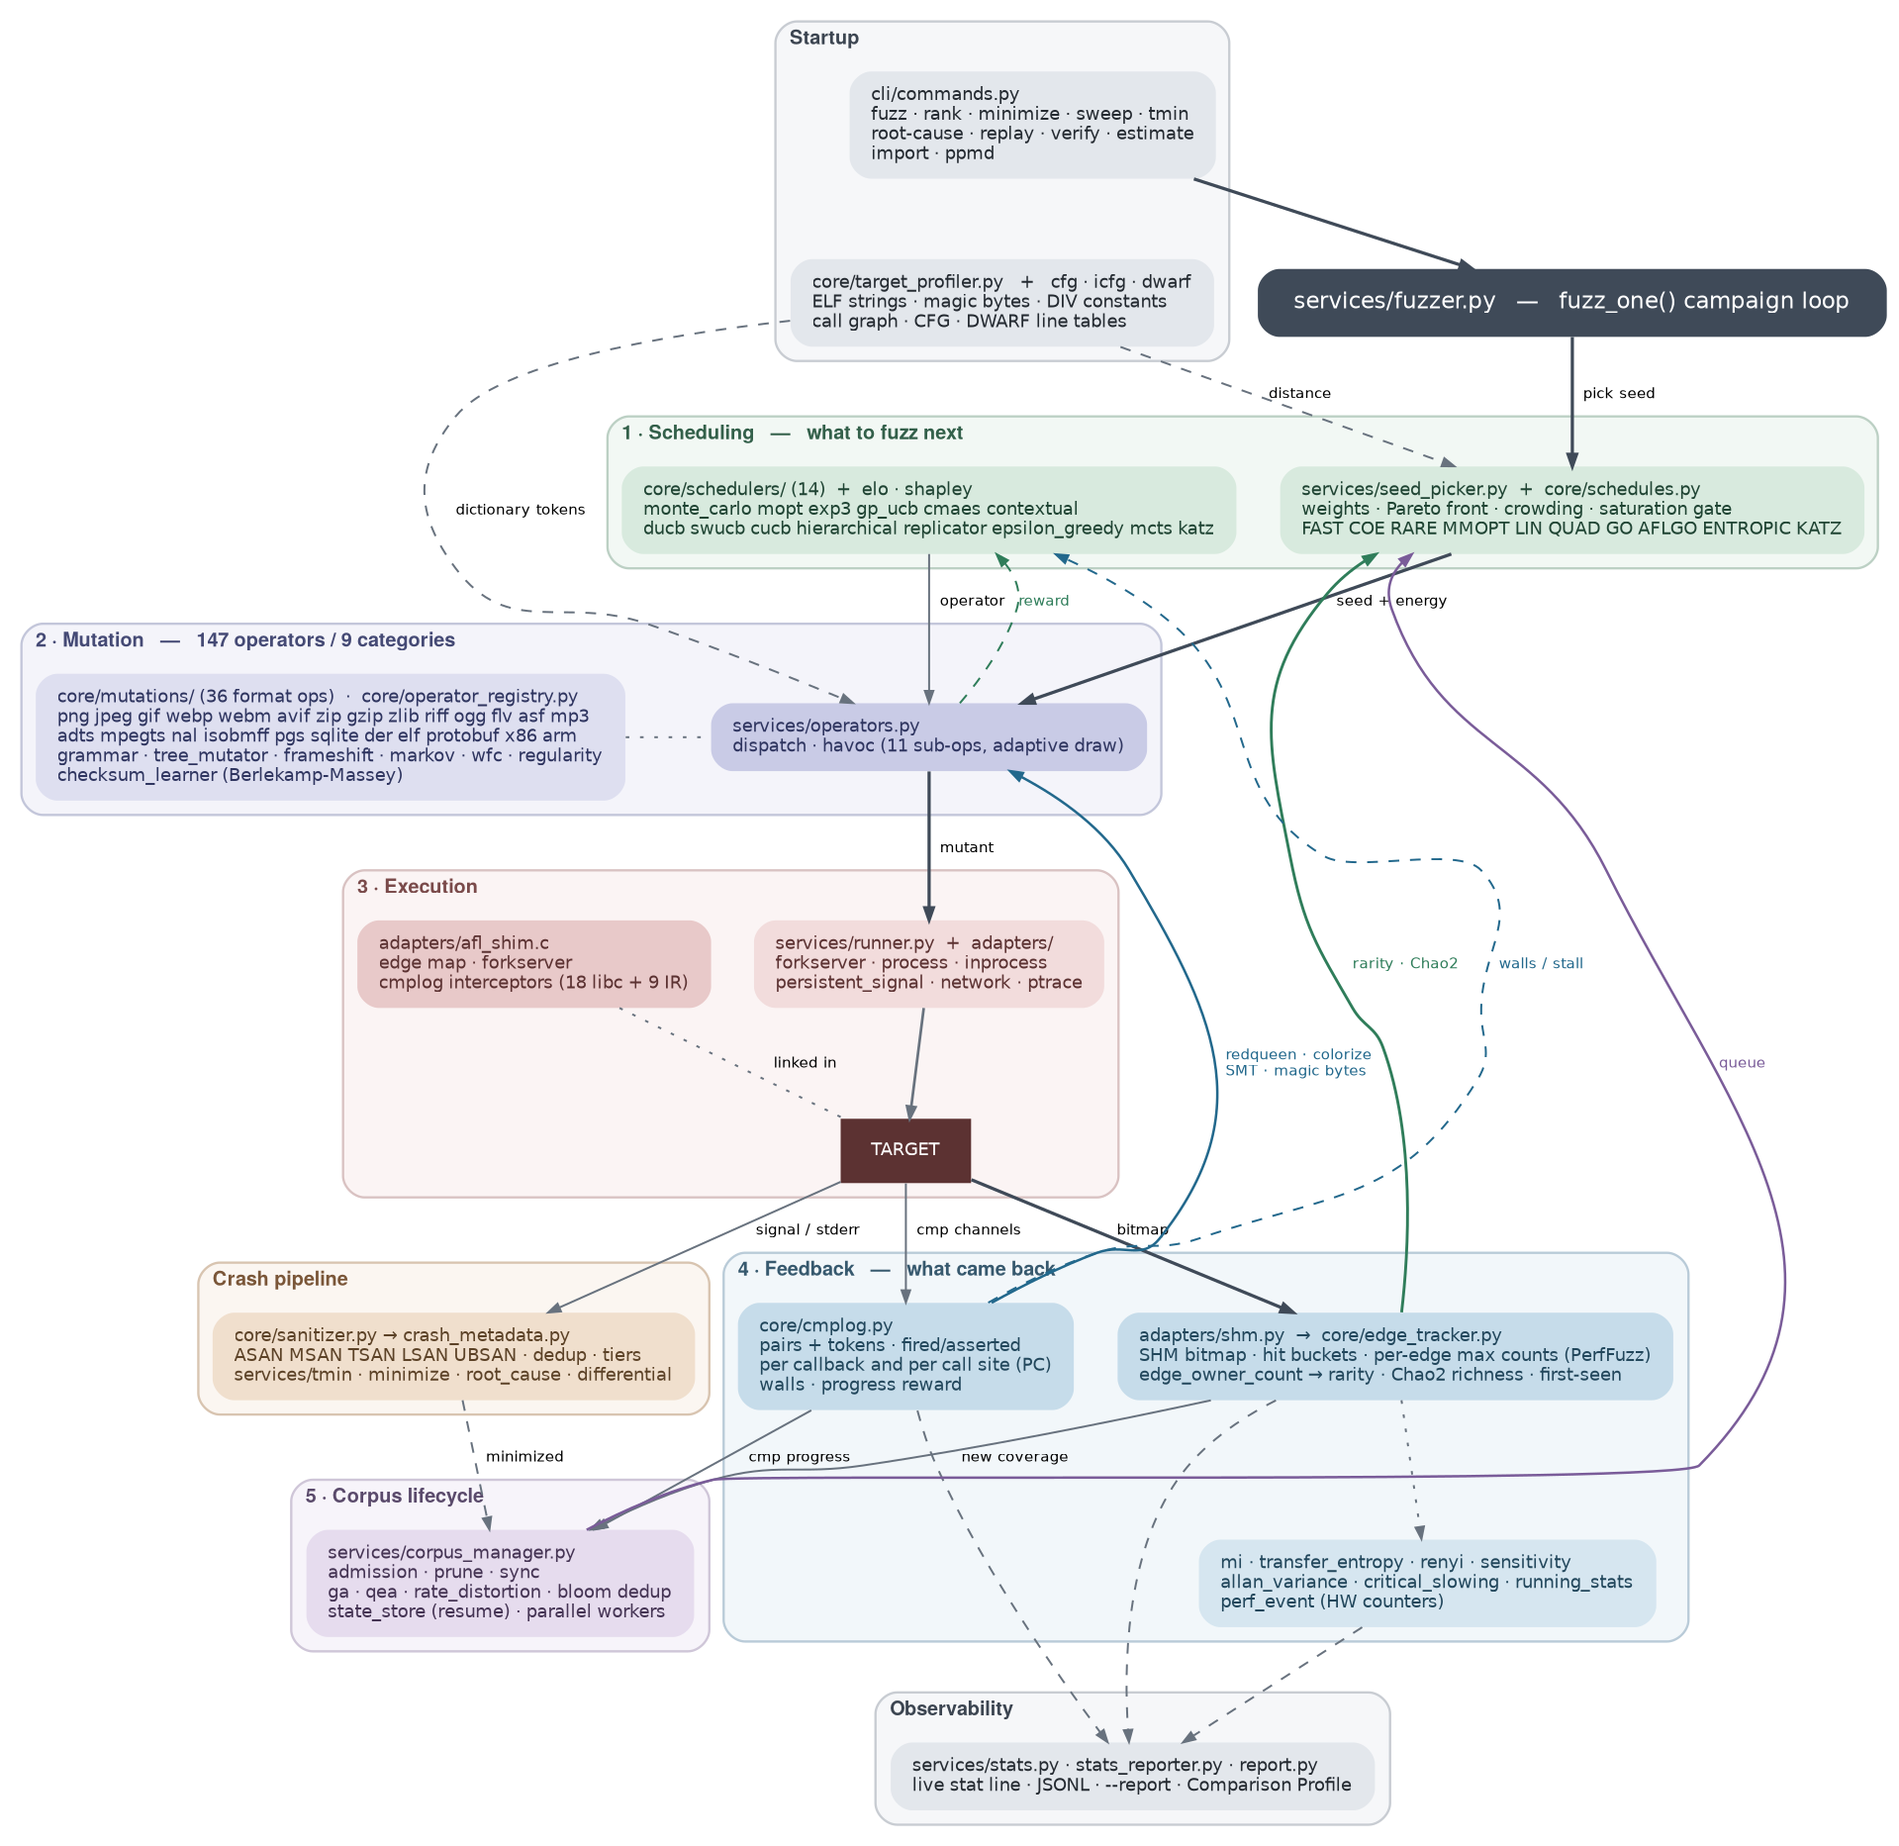
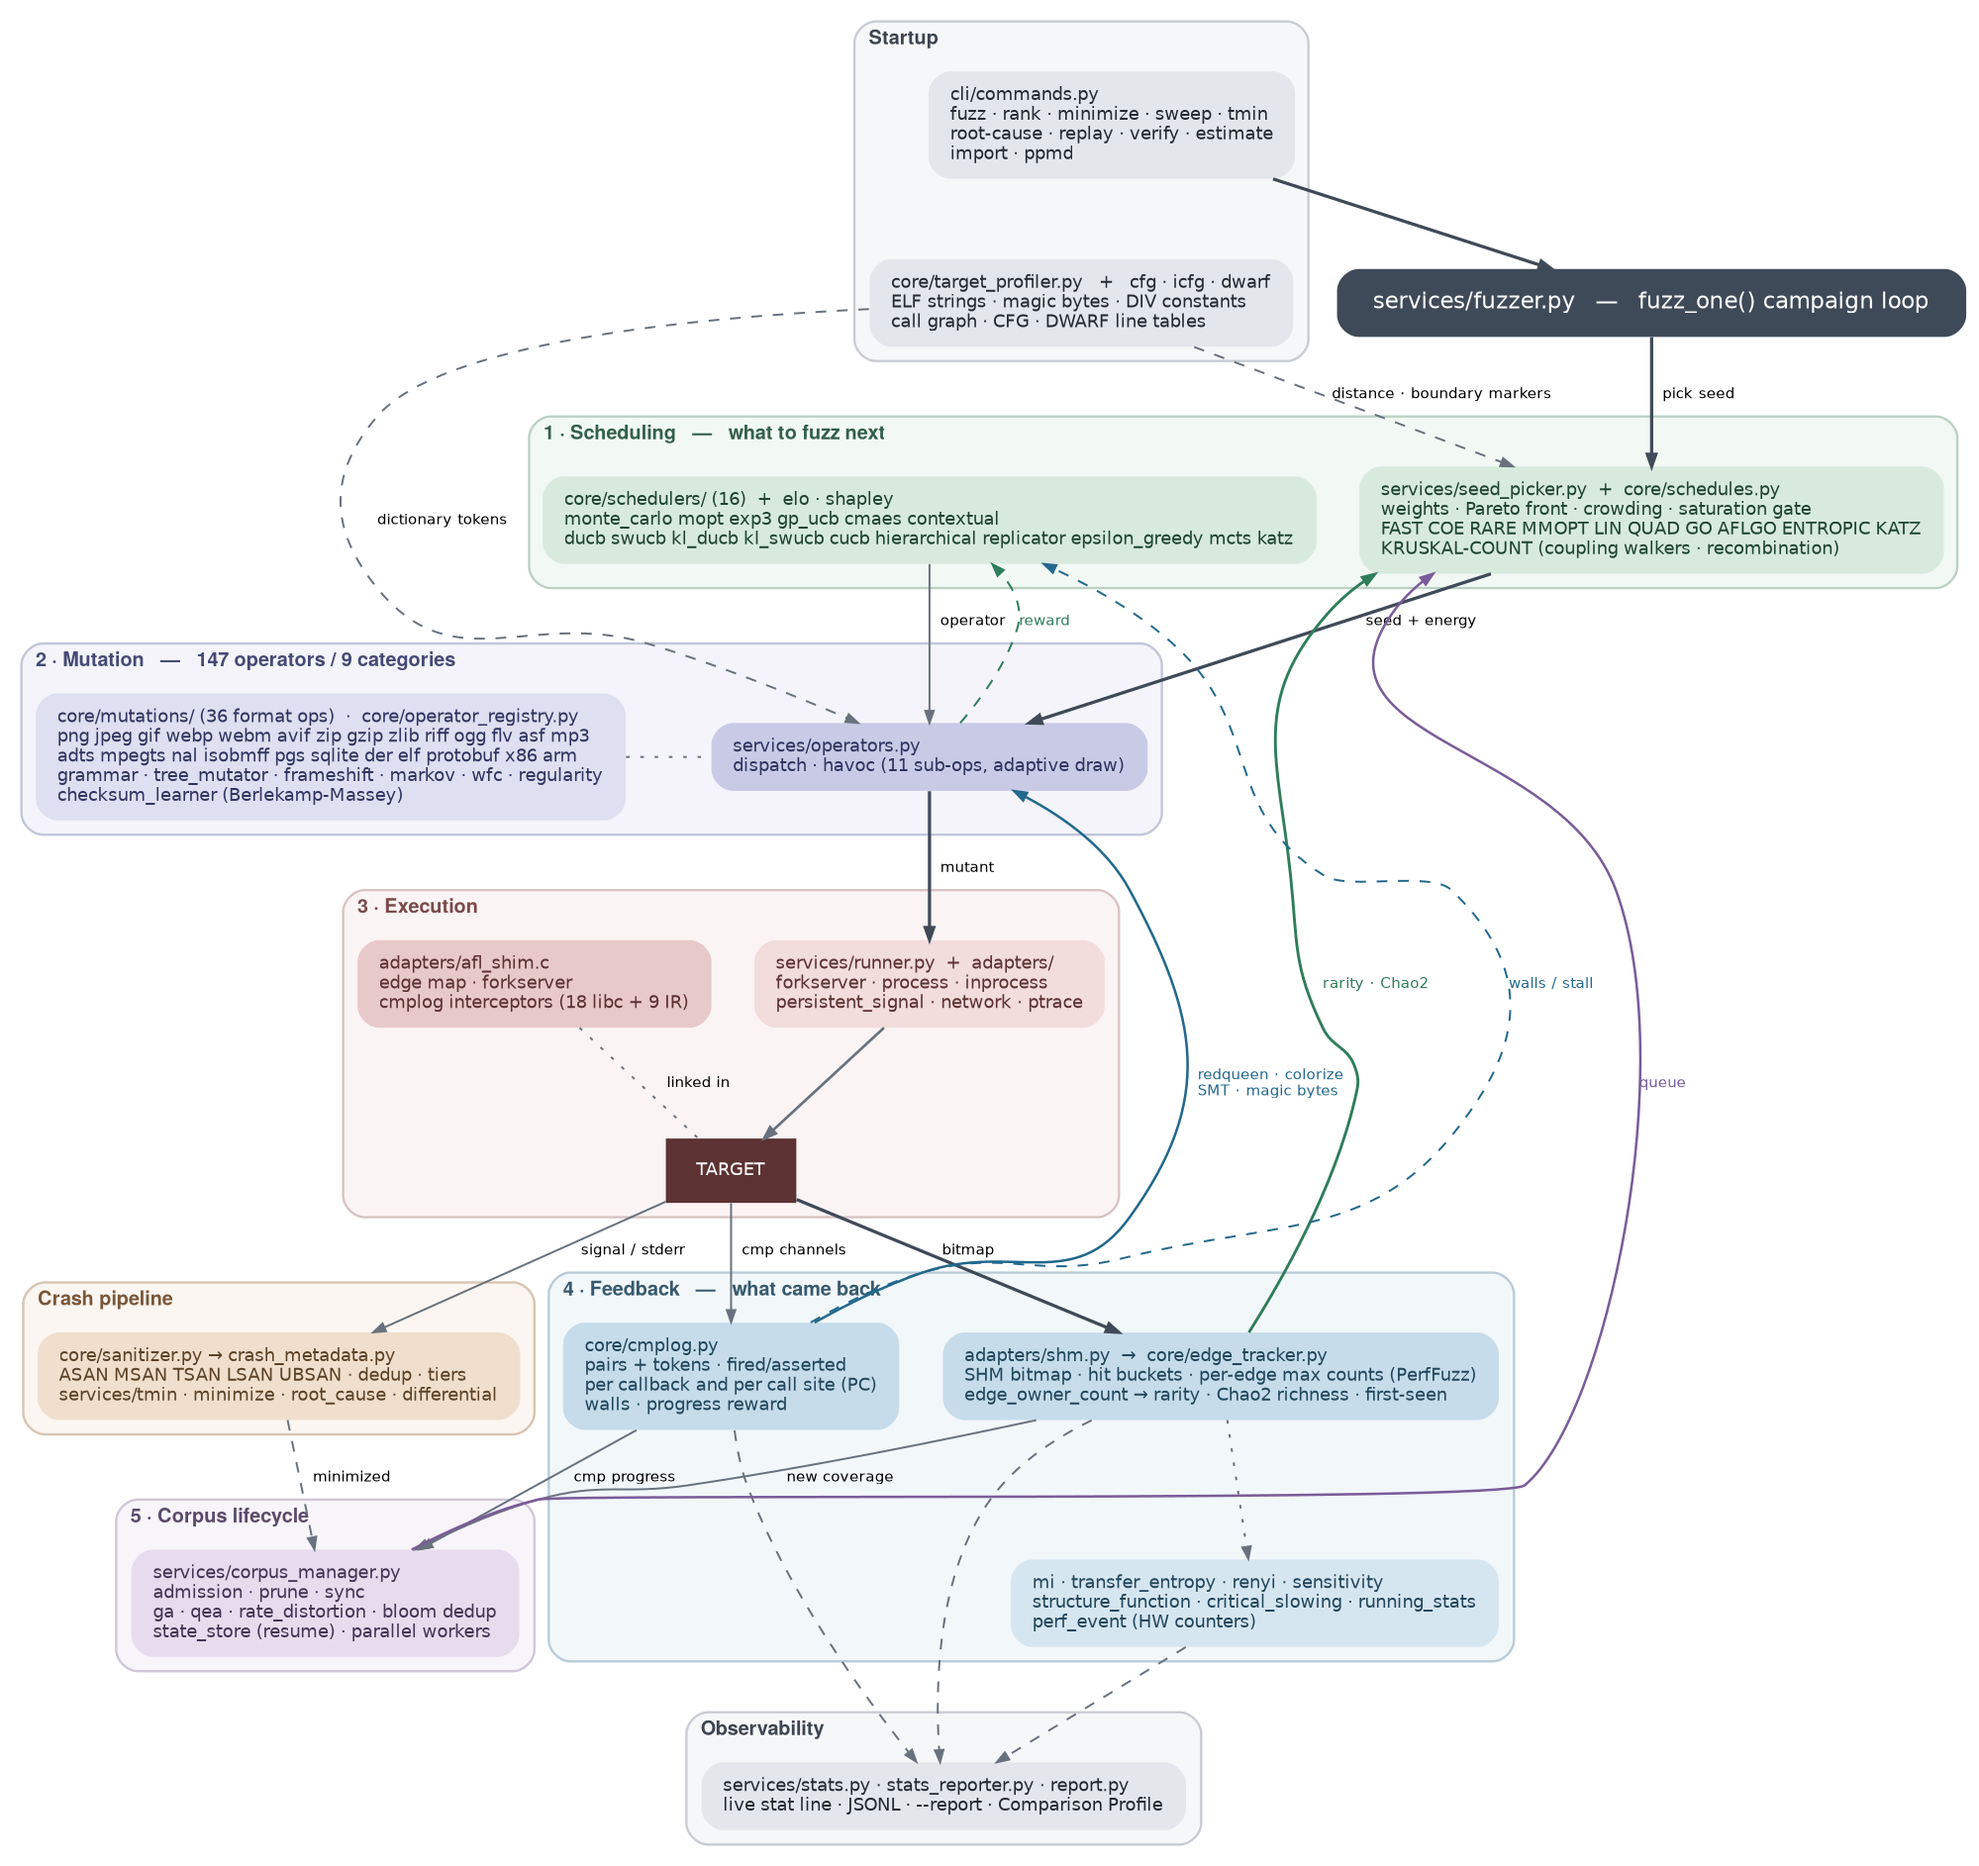
docs: document --kruskal-count and its open A/B
DEEP_DIVE entry with the length-bias and marker-saturation measurements,
README flag row, TODO A/B item, architecture diagram, and a status
header on the handover.

diff --git a/docs/DEEP_DIVE.md b/docs/DEEP_DIVE.md
@@ -101,6 +101,7 @@ For production and sensitive binaries using AFL family fuzzers is the best cours
 - **n-gram edge coverage** (`__AFL_NGRAM_K`): compile-time history depth k — k=2 is a byte-identical compatibility branch keeping the exported `__afl_prev_loc` and XOR ids (corpora/resume stay valid); k>2 swaps in a FIFO ring (`uint32_t` index, `#error`-guarded 2..4096) hashed with FNV-1a, order-sensitive where XOR chains go commutative. Marker symbol `__afl_ngram_k_N` always emitted; `detect_ngram_k()` mirrors `detect_ctx_bits`'s max-across-TUs policy and returns 2 on absence. Map sizing multiplies `ngram_inflation_factor(k)` = min((k−1)², 32). ptrace twin uses a deque XOR chain with `reset_edge_map()` clearing it. Build flavors: `tools/build_targets.sh --ngram` → `png_read_ng2.so`/`png_read_ng3.so` with vendored libpng+zlib rebuilt at trace-pc (whole-program CFG)
 - **K-Scheduler node channel + Katz arm** (She et al., S&P'22 port): trace-pc builds upload an ICFG-derived `node_idx` column inside widened 16-byte distance-table entries plus a separate eager-write node bitmap segment (`__AFL_NODE_BITMAP_ID`) — Python reads-and-clears after every exec (no destructor writer, unlike the lazy distance tail). `core/icfg.py` decodes the whole program (0.27 s / 2099 nodes on png_read_ng3), `core/horizon.py` contracts visited nodes with connectivity-preserving shortcuts and Tarjan-SCC DAG conversion, `core/schedulers/katz.py` solves out-degree Katz via one `np.bincount` SpMV per round with βᵢ = 1 − Rᵢ/T from bitmap hit counts. The Elo-arbitrated `katz` seed arm picks centrality-weighted seeds; a `"katz"` power schedule converts normalized centrality into clamped energy. Resume states carry a `coverage_contract` (`ngram_k`, `node_channel`) and refuse mismatches. **Read a Katz campaign's numbers with the paper's own calibration in hand:** the headline gain over AFL-based schedulers is 4.21% arithmetic mean but **1.91% median** at 24h over 10 runs (their Table V), which is inside the noise band of any single-run comparison; the ablations are each larger than the headline — loop removal +21.70% (XII), non-uniform β +24.19% (X), visited-node deletion +24.13% (XIII) — so most of the value is in the graph transform rather than in Katz itself, and none of `horizon.py`'s three steps is optional polish; and their own accuracy check against an ideal scheduler is a Kendall tau of 0.01–0.09, *negative* on libjpeg and openthread (XIX). That is why this is one Elo-arbitrated arm among several and not a replacement for the existing pickers. Note also that `__AFL_CTX_SENSITIVE` qualifies edges by caller context while K-Scheduler's nodes are context-free, so V saturates faster than the edge map and the horizon shrinks earlier than the paper's numbers assume
 - **Tang low-rank seed arm** (`core/schedulers/tang.py`, arXiv:1807.04271, 2026-09-07): port of Tang's quantum-inspired recommendation algorithm over the seed x edge matrix (`EdgeTracker.seed_edges` + `seed_hit_counts`), exposed as the Elo-arbitrated `tang` seed arm behind `--tang` (`--tang-rank`, `--tang-refit-interval`). A seed scores by the l2 mass its rank-k coverage row places on the edges it already covers; the module also carries faithful ports of Proposition 4.2 (inner-product estimation from l2 samples), Proposition 4.3 (rejection sampling from `Vw`) and `modfkv_sample_complexity` (Algorithm 2's `q`). Refit is a dense truncated SVD on an interval gate, not ModFKV: at our dimensions ModFKV wants 1e5-1e13 sampled rows against corpora of 13-116 seeds, so the subsample exceeds the input. **Off by default and it should stay that way until an A/B says otherwise.** Measured over ten campaigns: the score predicts, but controlling for `A.sum(1)` (total hit volume, one row sum) it adds nothing — mean partial Spearman +0.006, Wilcoxon p=1.0 — and an l2 draw lands on edges owned by 1.3-1.9x more seeds than a uniform draw, which fights `RARE_EDGE_OWNERS` and the crowding penalty in `seed_picker`. Inverting the score is not a separate option: `frontier_mass = 1 - covered_mass` exactly. Two findings transfer beyond this arm: Tang's low-rank and `(gamma, zeta)`-typicality assumptions are **mutually exclusive** on coverage data (hit counts give rho@10 = 0.05 but drop typicality from 91% to 6-17%; binary reverses both), and reconstruction fidelity is nonetheless real (1.6-6.3x over a popularity baseline under MNAR masking). Full findings, seven methodology gaps, and the rejected variants in `docs/handover/handover_done_2026-09-06.md` §14.
+- **Kruskal-count seed arm** (`core/schedulers/kruskal_count.py`, `--kruskal-count`, 2026-09-16): a seed is read as a jump table — byte `b` at offset `p` jumps to `(p + max(1, b)) % n`, or to the next boundary-marker offset when the target profile has a `format_signature`. Four walkers start at evenly spaced offsets and step 256 times; `score = coupled_pairs/6 * (1 - mean_coupling_step/256)`. The jump depends on position only, so coupled walkers stay coupled. The arm draws an anchor by `score + 1e-6`, then copies a score-weighted donor's bytes (modulo donor length) into the anchor along the trajectory the earliest-coupled pair shares after meeting, keeping a detected magic prefix; no coupling returns the anchor unchanged. Elo-eligible whenever the corpus is non-empty; in the non-Elo `pick_seed()` it runs after QEA/GA and before Bayesian. Scores are memoized by content and evicted with the corpus; the byte-fallback path is batch-vectorized (12.6x over the scalar `trace`, which stays as the reference). State (`kruskal_count` section) is five primitive counters, validated whole on load and restored only under `--resume`; report and live stats show scored/coupled/generated/mean. **Off by default, not A/B validated.** Two measured caveats: coupling is strongly length-biased (random bytes: 126/200 seeds couple at 64 B, 67/200 at 512 B, 10/200 at 4 KiB), and boundary markers collapse walkers that start before the first marker onto it at step 1 (synthetic text corpus: 47 distinct scores without markers, 26 with). Plan: `docs/handover/kruskal_count_seed_strategy.md`.
 
 ### Distribution Diagnostics
 - **Running statistics** (`core/running_stats.py`): Welford/Pébay online algorithm for O(1) mean, variance, stddev, skewness, and excess kurtosis — unbounded or sliding-window variants

diff --git a/docs/TODO.md b/docs/TODO.md
@@ -18,6 +18,7 @@
 ## Scheduling
 - [ ] **Validity channel needs a harness convention per target** (2026-08-28) — `--reject-code` is opt-in because nothing in the tree emits a rejection code today: `targets/*.c` return 0 or crash. The channel is inert until a harness is taught to report rejection (libFuzzer's `return -1` convention is the closest analogue). Worth adding to one structured target — `png_read.c` returning the code on a signature mismatch — to measure whether valid-only coverage admits anything the main map does not.
 - [ ] **SGFuzz transitions are edges, not a state tree** (2026-08-28) — `__sfuzz_state` hashes each transition into the edge map, which buys every existing coverage consumer for free but materialises no State Transition Tree, so nothing can schedule by state the way upstream SGFuzz does (energy toward rarely-reached states). Building the tree needs the transitions read out separately, not folded into the map. Also open: the instrumenter skips declaration initialisers (a comma expression there is a second declarator, not a transition), so the initial state is unreported and the first real transition sees 0 as its predecessor. And no target in `targets/` is instrumented yet — `tools/build_targets.sh` has no `--sgfuzz` pass, so the runtime is inert in the tree as shipped.
+- [ ] **A/B the Kruskal-count seed arm** (2026-09-16) — `--kruskal-count` is wired end to end and tested, not measured. Before trusting it, pair it against the default picker the way `docs/learnings/2026-08-30-boltzmann-ab-result.md` did. Check the length bias first: coupling probability falls from 63% of 64-byte random seeds to 5% at 4 KiB, so the arm may just be a short-seed preference with extra steps — compare against a plain `1/len` weighting as a control. On marker-dense formats the boundary jump saturates the score; if the A/B is flat there, drop the marker path rather than tune it.
 - [ ] **Collaborative scheduling across parallel workers** — parallel workers currently sync corpus but don't coordinate scheduling decisions. Could share exploration/exploitation state.
 - [x] **A/B the cost-based Boltzmann energy** (2026-08-29, run 2026-08-30) — **no significant difference on any target that can carry it, bounded.** png 3W/6L/1T median -2.0 p=0.508; jpeg 2W/5L/3T median -1.5 p=0.453; grep 12W/7L/1T median +3.0 p=0.359. Three replicates per cell, arms paired in time, `direct_lite` at `-m 65536`; 10 seeds on png/jpeg, 20 on grep. Power was ~100% against a 10-edge effect on png/jpeg and 91% on grep, so the usable statement is that the change moves edge discovery by under ~5 edges on png/jpeg and under ~10 on grep (~1.2%), not that it does nothing. Directions disagree across targets and nothing supports either sign. Note for anyone reading interim numbers: the first 10 grep seeds gave 7W/2L (p=0.180) in the mechanism-consistent direction, and seeds 10-19 came back exactly 5W/5L — the apparent signal was noise that lined up with the theory. Full write-up in `docs/learnings/2026-08-30-boltzmann-ab-result.md`.
 - [ ] **Should cumulative execution cost enter the eviction ordering?** (2026-08-30) — backlog D5's third consumer, now unblocked. `EdgeTracker._maybe_prune` orders evictions by how much unique coverage goes with the seed, which answers the original complaint that insertion order was a tiebreak with no defence behind it. Whether cost per retained edge should join that ordering is a separate and now testable question. Note the premise it was filed under was wrong in a way that raises its value: the fallback path was assumed to fire rarely, and measured on a corpus-shaped workload it evicted all 420 seeds while subsumption evicted 0 — every seed owns a unique edge because owning one is what got it admitted. This inherits the A/B requirement from the Boltzmann item above, since it changes which seeds exist.

diff --git a/README.md b/README.md
@@ -131,6 +131,7 @@ per-sub-operator reward instead of uniformly (`--no-adaptive-havoc` restores uni
 | Combinatorial UCB | `--cucb` | CUCB over operator *sets* rather than single arms |
 | MCTS / UCT | `--mcts` | Tree search for seed selection over the mutation lineage forest |
 | Boltzmann seeds | `--boltzmann` | P(seed) ∝ exp(−E/T) with E = log(fuzz_count + 1), annealed |
+| Kruskal-count seeds | `--kruskal-count` | Seeds scored by walker coupling speed; anchor recombined with a donor along the coupled trajectory |
 | Metropolis admission | `--metropolis` | Accept non-improving inputs with P = exp(−ΔE/T) |
 | Secretary stopping | `--secretary` | Optimal-stopping rule for seed/operator/corpus switching |
 | honggfuzz power factors | `--honggfuzz` | Novelty decay, freshness, fertility, density, entropy and timeout penalties |

diff --git a/docs/handover/kruskal_count_seed_strategy.md b/docs/handover/kruskal_count_seed_strategy.md
@@ -1,4 +1,6 @@
 # Plan: hybrid `kruskal_count` seed strategy
+
+> **Status (2026-09-16): implemented.** Module, SeedPicker/Fuzzer/CLI/parallel wiring, state, report, docs. Open: the A/B (`docs/TODO.md`). Deviations: per-seed scores are not persisted (pure function of bytes + profile); "first coupled pair" means earliest-coupling, ties by pair index; the trajectory mask stops at the first revisited offset.
 ## Goal
 Add an opt-in `kruskal_count` seed strategy based on Kruskal-count coupling:
 - independent walkers traverse each corpus seed using value-driven jumps;
